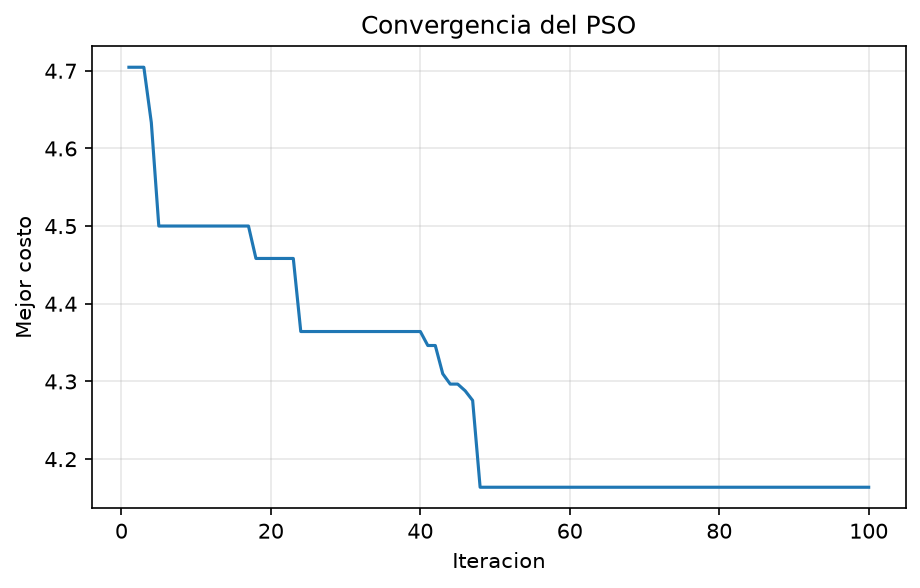
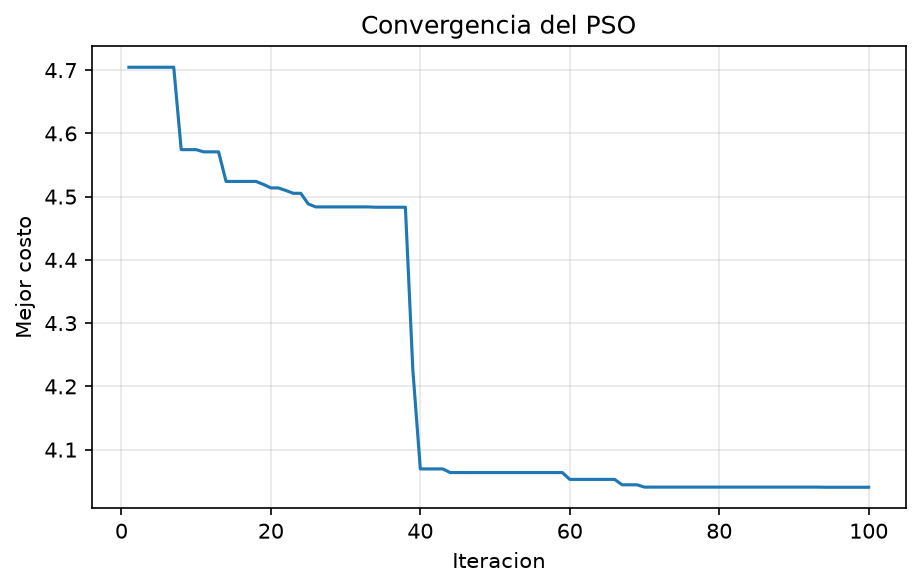
rutas a entrada/, orden de aptitud.py y figuras con la configuracion final

diff --git a/unidad-3-bioinspirados/riego-pso/aptitud.py b/unidad-3-bioinspirados/riego-pso/aptitud.py
@@ -19,7 +19,7 @@ IMPORTANCIA = list(datos["importancia"])
 CULTIVO = list(datos["cultivo"])
 ELEVACION = list(datos["elevacion"])
 SUMA_IMPORTANCIA = sum(IMPORTANCIA)
-DESV_ELEVACION = datos["elevacion"].std(ddof=0)    
+DESV_ELEVACION = datos["elevacion"].std(ddof=0)
 
 def separar_sensores(posicion):
     # convierte [x1, y1, x2, y2, ...] en [(x1, y1), (x2, y2), ...]
@@ -82,19 +82,6 @@ def costo(posicion):
     cobertura, mezcla, desnivel = desglose(posicion)
     return cobertura + PESO_CULTIVO * mezcla + PESO_ELEVACION * desnivel
 
-if __name__ == "__main__":
-    # prueba con 2 sensores puestos a mano
-    prueba = [2.5, 5, 7.5, 5]
-    sensores = separar_sensores(prueba)
-    asignacion, distancias = asignar(sensores)
-    print("sensores:", sensores)
-    print("primeras 5 asignaciones:", asignacion[:5])
-    print("primeras 5 distancias:", [round(d, 3) for d in distancias[:5]])
-    print("parcelas por sensor:", [asignacion.count(k) for k in range(len(sensores))])
-    print("distancia promedio:", round(sum(distancias) / len(distancias), 3))
-    print(datos[["humedad", "salinidad", "importancia"]].head())
-    print("costo con 1 sensor:", round(costo([5, 5]), 3), desglose([5, 5]))
-    print("costo con 2 sensores:", round(costo([2.5, 5, 7.5, 5]), 3), desglose([2.5, 5, 7.5, 5]))
 
 def preparar(tabla):
     # vuelve a calcular las listas con otra tabla de parcelas (para probar otros terrenos)
@@ -111,3 +98,18 @@ def preparar(tabla):
     ELEVACION = list(tabla["elevacion"])
     SUMA_IMPORTANCIA = sum(IMPORTANCIA)
     DESV_ELEVACION = tabla["elevacion"].std(ddof=0)
+
+
+if __name__ == "__main__":
+    # prueba con 2 sensores puestos a mano
+    prueba = [2.5, 5, 7.5, 5]
+    sensores = separar_sensores(prueba)
+    asignacion, distancias = asignar(sensores)
+    print("sensores:", sensores)
+    print("primeras 5 asignaciones:", asignacion[:5])
+    print("primeras 5 distancias:", [round(d, 3) for d in distancias[:5]])
+    print("parcelas por sensor:", [asignacion.count(k) for k in range(len(sensores))])
+    print("distancia promedio:", round(sum(distancias) / len(distancias), 3))
+    print(datos[["humedad", "salinidad", "importancia"]].head())
+    print("costo con 1 sensor:", round(costo([5, 5]), 3), desglose([5, 5]))
+    print("costo con 2 sensores:", round(costo([2.5, 5, 7.5, 5]), 3), desglose([2.5, 5, 7.5, 5]))

diff --git a/unidad-3-bioinspirados/riego-pso/entrada/extraer_tabla.py b/unidad-3-bioinspirados/riego-pso/entrada/extraer_tabla.py
@@ -2,9 +2,9 @@
 from docx import Document
 import csv
 
-doc = Document("Proyecto_PSO_Riego_Agricultura_Documento_Final.docx")
+doc = Document("entrada/Proyecto_PSO_Riego_Agricultura_Documento_Final.docx")
 tabla = doc.tables[0]
-with open("parcelas_guasave.csv", "w", newline="", encoding="utf-8") as f:
+with open("entrada/parcelas_guasave.csv", "w", newline="", encoding="utf-8") as f:
     w = csv.writer(f)
     for fila in tabla.rows:
         w.writerow([c.text.strip() for c in fila.cells])

diff --git a/unidad-3-bioinspirados/riego-pso/datos.py b/unidad-3-bioinspirados/riego-pso/datos.py
@@ -1,7 +1,7 @@
 import pandas as pd
 import numpy as np
 
-datos = pd.read_csv("parcelas_guasave.csv")
+datos = pd.read_csv("entrada/parcelas_guasave.csv")
 datos.columns = ["humedad", "cultivo", "elevacion", "salinidad", "temperatura", "lat", "lon"]
 
 # pasa de latitud y longitud a kilometros, origen en la esquina inferior izquierda

diff --git a/unidad-3-bioinspirados/riego-pso/pruebas.py b/unidad-3-bioinspirados/riego-pso/pruebas.py
@@ -134,7 +134,6 @@ def prueba5():
     aptitud.preparar(datos)  # regresa a los datos originales
 
 
-   
 if __name__ == "__main__":
     prueba1()
     prueba2()
